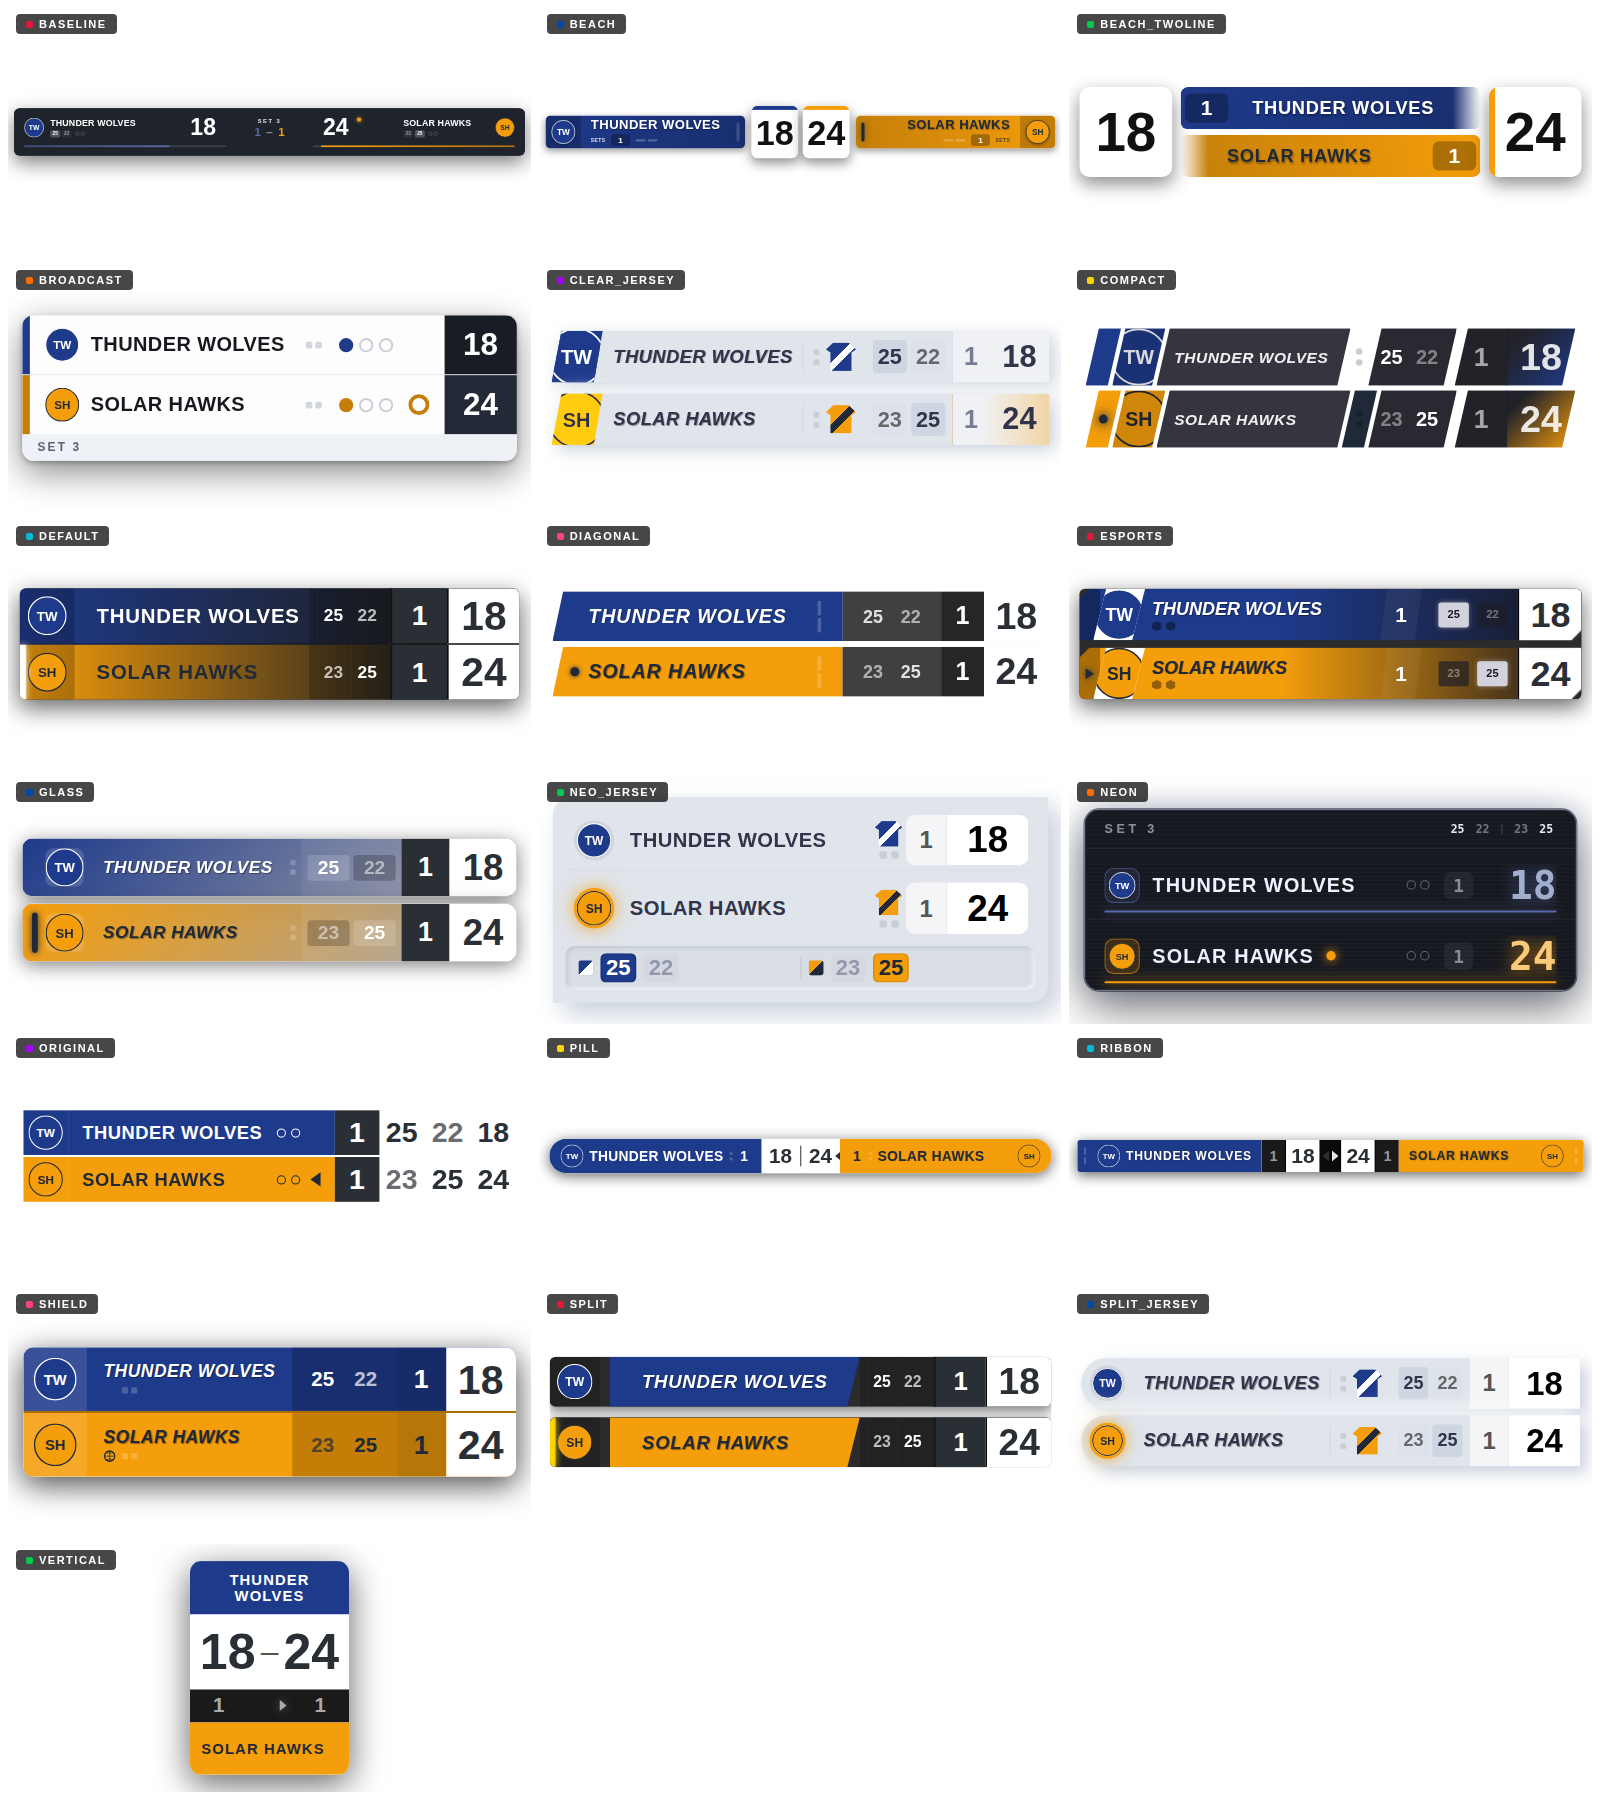
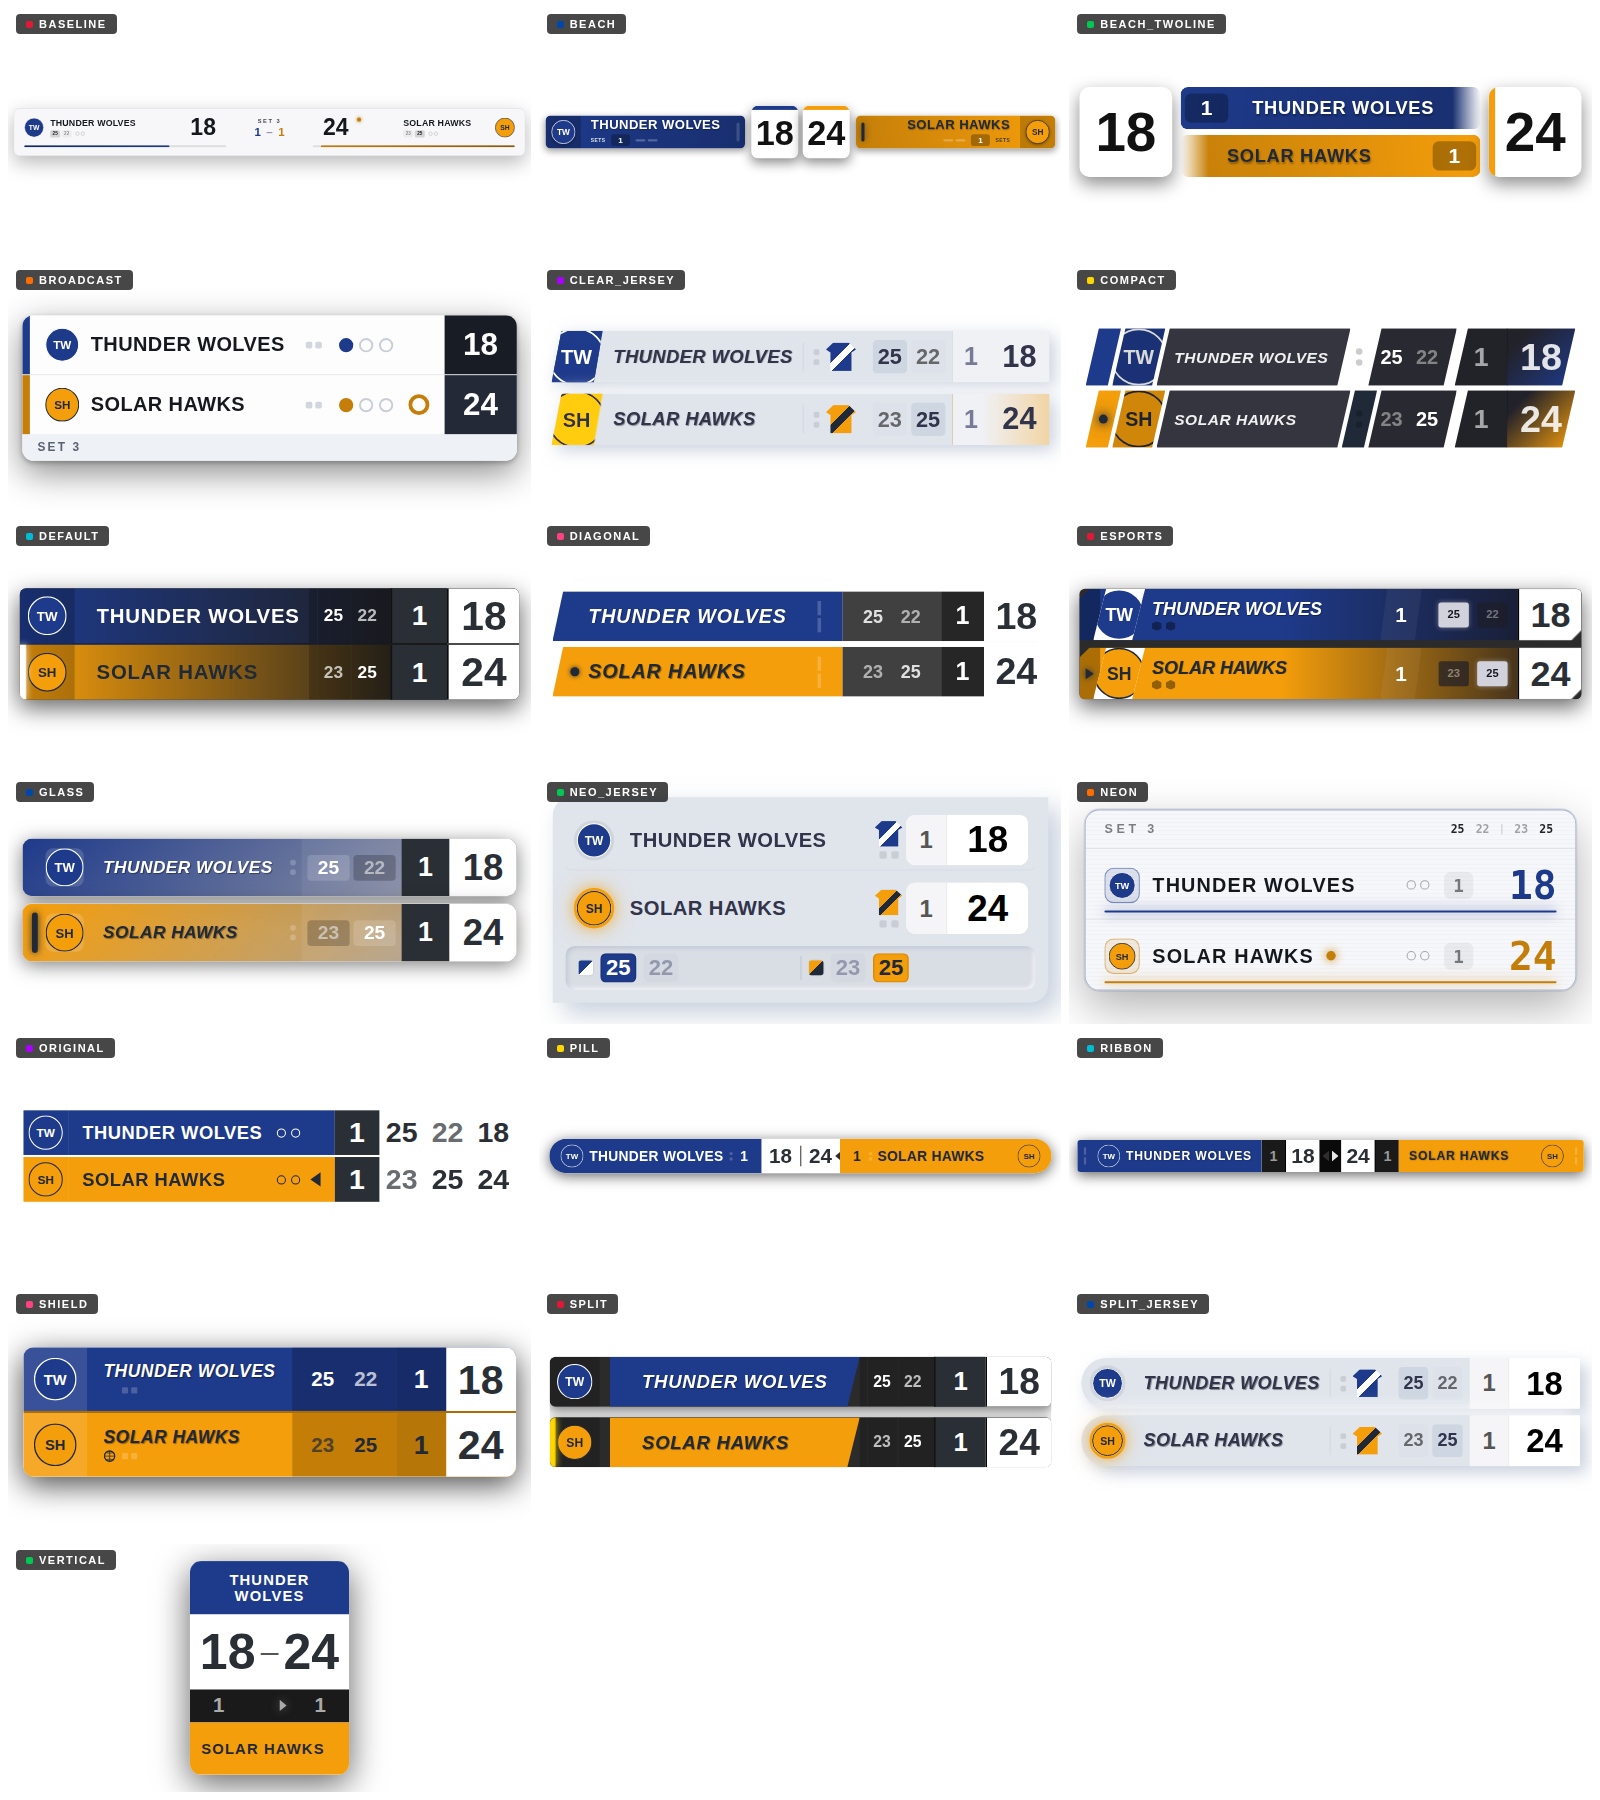
Add dark palettes to the jersey family; themed mosaic demo pair
Extends overlayTheme=dark coverage to the light-native jersey styles
(neo_jersey, clear_jersey, split_jersey). The shared neumorphic
tokens in jersey_shared.css gain a dark set under
body.overlay-theme-dark and each stylesheet overrides its remaining
hardcoded light surfaces (score blocks, chips, separators, halos).
The jersey kit icons deliberately keep their raw team colours on
either surface — they depict the kit, like a logo. glass stays
default-only on purpose: its card surface IS the team colour
(linear-gradient from --home/away-primary), so a forced theme would
fight the style's identity.

The two README mosaics now double as the theme demo: full data is
captured with the forced light theme, simple mode with the forced
dark one, so every theme-aware style shows both variants across the
pair while unthemed styles render identically in both.

https://claude.ai/code/session_01FXcwFUBe9ZG4utDB8UMF5o

Changed region(s): [[0.6562, 0.4356, 1.0, 0.5911], [0.0, 0.0622, 0.3438, 0.0933]]

diff --git a/overlay_static/css/clear_jersey.css b/overlay_static/css/clear_jersey.css
@@ -427,3 +427,33 @@ body {
 
 .player-stats-label { color: var(--nm-text-dim); }
 .player-stats-value { color: var(--nm-text); }
+
+/* ── Dark theme (operator overlayTheme=dark / ?theme=dark) ──
+   The shared neumorphic tokens flip in jersey_shared.css; the rules
+   below cover this style's hardcoded light surfaces. Jersey icons
+   keep the raw team colours (kit identity). */
+body.overlay-theme-dark .jersey-group { border-left-color: rgba(255, 255, 255, 0.12); }
+body.overlay-theme-dark .timeout-dot { background: rgba(255, 255, 255, 0.14); }
+body.overlay-theme-dark .set-score {
+    color: rgba(154, 161, 190, 0.65);
+    background: rgba(255, 255, 255, 0.07);
+}
+body.overlay-theme-dark .set-score.set-won { background: rgba(255, 255, 255, 0.18); }
+body.overlay-theme-dark .set-score.set-lost { color: rgba(190, 196, 214, 0.85); }
+body.overlay-theme-dark .score-section {
+    background: #1b1f2b;
+    border-left-color: rgba(255, 255, 255, 0.12);
+}
+/* Serve tint over the dark score block (plain fallback first for
+   CEF builds without color-mix). */
+body.overlay-theme-dark .team-home .serving-indicator.active ~ .score-section {
+    background: #1b1f2b;
+    background: linear-gradient(90deg, #1b1f2b 30%,
+        color-mix(in srgb, var(--home-gradient, var(--home-primary)) 35%, #1b1f2b));
+}
+body.overlay-theme-dark .team-away .serving-indicator.active ~ .score-section {
+    background: #1b1f2b;
+    background: linear-gradient(90deg, #1b1f2b 30%,
+        color-mix(in srgb, var(--away-gradient, var(--away-primary)) 35%, #1b1f2b));
+}
+body.overlay-theme-dark .player-stats-title { border-bottom-color: rgba(255, 255, 255, 0.14); }

diff --git a/overlay_static/css/neo_jersey.css b/overlay_static/css/neo_jersey.css
@@ -500,3 +500,33 @@ body {
 
 .player-stats-label { color: var(--nm-text-dim); }
 .player-stats-value { color: var(--nm-text); }
+
+/* ── Dark theme (operator overlayTheme=dark / ?theme=dark) ──
+   The shared neumorphic tokens flip in jersey_shared.css; the rules
+   below cover this style's hardcoded light surfaces. Jersey icons
+   keep the raw team colours (kit identity). */
+body.overlay-theme-dark .team-home { border-bottom-color: rgba(255, 255, 255, 0.10); }
+body.overlay-theme-dark .team-logo { background: rgba(255, 255, 255, 0.08); }
+body.overlay-theme-dark .timeout-dot { background: rgba(255, 255, 255, 0.14); }
+body.overlay-theme-dark .score-section {
+    background: #1b1f2b;
+    box-shadow: inset 2px 2px 5px rgba(0, 0, 0, 0.45);
+}
+body.overlay-theme-dark .sets {
+    color: #aab1cb;
+    background: #20242f;
+    border-right-color: rgba(255, 255, 255, 0.06);
+}
+body.overlay-theme-dark .points-container { background: #171b26; }
+body.overlay-theme-dark .points { color: #f2f4fa; }
+body.overlay-theme-dark .history-strip { background: rgba(255, 255, 255, 0.05); }
+body.overlay-theme-dark .history-divider { background: rgba(255, 255, 255, 0.18); }
+body.overlay-theme-dark .set-score {
+    color: rgba(154, 161, 190, 0.75);
+    background: rgba(255, 255, 255, 0.07);
+}
+body.overlay-theme-dark #home-history .set-score.set-won,
+body.overlay-theme-dark #away-history .set-score.set-won {
+    box-shadow: inset 0 0 0 1.5px rgba(255, 255, 255, 0.18);
+}
+body.overlay-theme-dark .player-stats-title { border-bottom-color: rgba(255, 255, 255, 0.14); }

diff --git a/overlay_static/css/split_jersey.css b/overlay_static/css/split_jersey.css
@@ -430,3 +430,30 @@ body {
 
 .player-stats-label { color: var(--nm-text-dim); }
 .player-stats-value { color: var(--nm-text); }
+
+/* ── Dark theme (operator overlayTheme=dark / ?theme=dark) ──
+   The shared neumorphic tokens flip in jersey_shared.css; the rules
+   below cover this style's hardcoded light surfaces. Jersey icons
+   keep the raw team colours (kit identity). */
+body.overlay-theme-dark .team-logo { background: rgba(255, 255, 255, 0.08); }
+body.overlay-theme-dark .jersey-group { border-left-color: rgba(255, 255, 255, 0.12); }
+body.overlay-theme-dark .timeout-dot { background: rgba(255, 255, 255, 0.14); }
+body.overlay-theme-dark .set-score {
+    color: rgba(154, 161, 190, 0.65);
+    background: rgba(255, 255, 255, 0.07);
+}
+body.overlay-theme-dark .set-score.set-won { background: rgba(255, 255, 255, 0.18); }
+body.overlay-theme-dark .set-score.set-lost { color: rgba(190, 196, 214, 0.85); }
+body.overlay-theme-dark .score-section {
+    background: #1b1f2b;
+    border-left-color: rgba(255, 255, 255, 0.12);
+    box-shadow: inset 3px 0 6px rgba(0, 0, 0, 0.45);
+}
+body.overlay-theme-dark .sets {
+    color: #aab1cb;
+    background: #20242f;
+    border-right-color: rgba(255, 255, 255, 0.06);
+}
+body.overlay-theme-dark .points-container { background: #171b26; }
+body.overlay-theme-dark .points { color: #f2f4fa; }
+body.overlay-theme-dark .player-stats-title { border-bottom-color: rgba(255, 255, 255, 0.14); }

diff --git a/overlay_static/css/jersey_shared.css b/overlay_static/css/jersey_shared.css
@@ -9,6 +9,21 @@
     --nm-inset-lite:  rgba(255, 255, 255, 0.80);
     --nm-text:        #31344b;
     --nm-text-dim:    #777b96;
+}
+
+/* Dark variant of the neumorphic tokens (operator overlayTheme=dark
+   or ?theme=dark). Consumed by neo_jersey / clear_jersey /
+   split_jersey; the jersey icons themselves keep the raw team
+   colours — they depict the kit, like a logo, so the theme never
+   recolours them. */
+body.overlay-theme-dark {
+    --nm-bg:          #262a38;
+    --nm-shadow-dark: rgba(8, 10, 16, 0.70);
+    --nm-shadow-lite: rgba(64, 72, 98, 0.45);
+    --nm-inset-dark:  rgba(8, 10, 16, 0.60);
+    --nm-inset-lite:  rgba(64, 72, 98, 0.40);
+    --nm-text:        #e4e7f2;
+    --nm-text-dim:    #9aa1be;
     --collapse-easing: cubic-bezier(0.4, 0, 0.2, 1);
 }
 

diff --git a/CHANGELOG.md b/CHANGELOG.md
@@ -14,7 +14,11 @@ once a first tagged release ships.
   three-state appearance setting (default / dark / light) in the
   overlay config flips the card surface on styles that define the
   matching palette — `neon` and `baseline` gain a light variant,
-  `broadcast` a dark one; "default" keeps every style's native look.
+  `broadcast` and the light-native jersey family (`neo_jersey`,
+  `clear_jersey`, `split_jersey`) dark ones; "default" keeps every
+  style's native look. Styles whose card surface is the team colour
+  itself (e.g. `glass`) intentionally ignore the toggle, and the
+  jersey kit icons keep their raw team colours on either surface.
   The theme rides the customization (`overlayTheme`), is included in
   style presets, and can be pinned per browser source with a
   `?theme=` URL parameter (the mosaic forwards it to every preview).